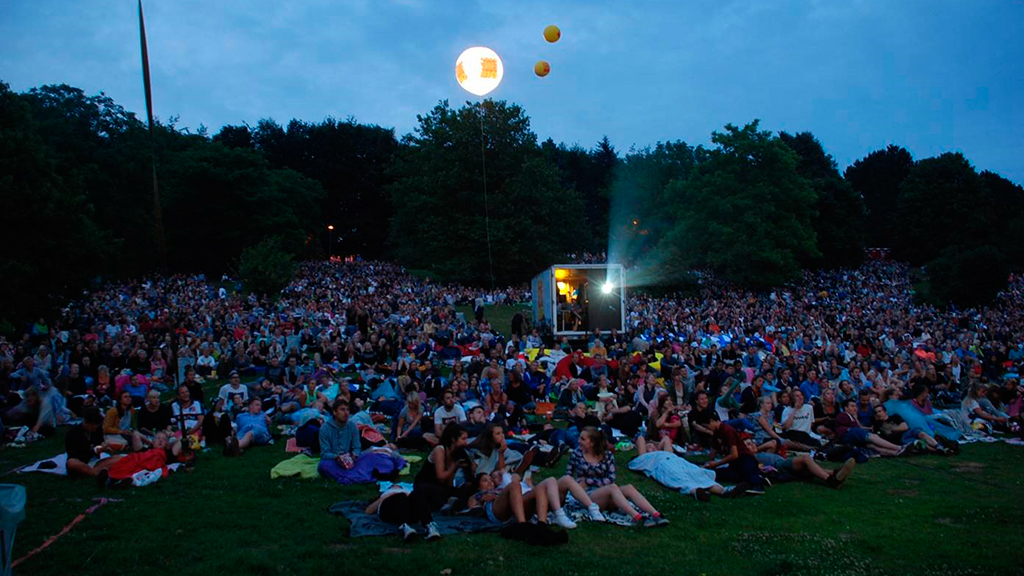
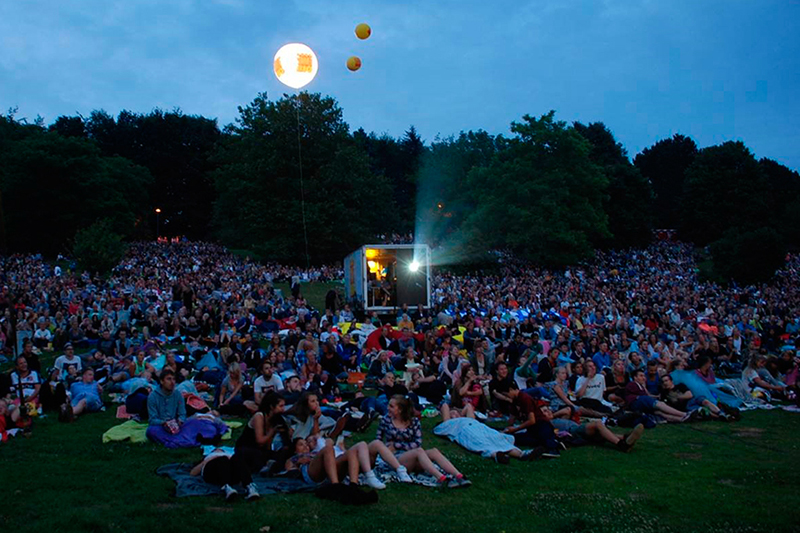
Fixed image ratiosm resolutions, and filenames
Cropped all the images to the correct ratio, and renamed them with lowercase letters.
Fixed the missing/not detailed <alt> tags, and added hyphens when it was necessary.
All images on the same subpages have the same resolution now.

diff --git a/events.php b/events.php
@@ -16,27 +16,27 @@ include("includes/head.php"); ?>
 		<h1>Upcoming Events</h1>
 
 		<h2>Zulu Outdoor Cinema</h2>
-		<div id="zulubox"><img src="pictures/Zulu.jpg" alt="Zulu"></div>
+		<div id="zulubox"><img src="pictures/zulu.jpg" alt="Hundreds of people sitting on the lawn of the Botanical Park watching a movie at night."></div>
 		<p class="welcometext">
 		TV2’s Zulu hosts their yearly outdoor cinema in the Botanical Park. Bring your friends and family, take a spot on the lawn and enjoy some of the best movies that came out this year!
 		The event is free, and screenings start just after sunset.
 		For more information please visit Zulu’s official website.</p>
 
 		<h2>Stella Polaris</h2>
-		<div id="stellabox"><img src="pictures/Stella Polaris Aarhus.jpg" alt="Stella Polaris"></div>
+		<div id="stellabox"><img src="pictures/stella-polaris-aarhus.jpg" alt="Hundreds of people sitting on the lawn of the Botanical Park during a music festival."></div>
 		<p class="welcometext">Stella Polaris is the world’s largest, free downtempo festival. Set in the Botanical Park, Polaris brings established Danish and foreign acts each year to perform for thousands of electronic music fans.
 		The event is free, and all ages!
 		For more information please visit Stella Polaris’ official website.</p>
 
 		<h2>Red Bull Soapbox Race</h2>
-		<div id="soapbox"><img src="pictures/Soap box.jpg" alt="Red Bull Soap Box"></div>
+		<div id="soapbox"><img src="pictures/soap-box.jpg" alt="A soapbox car is rolling downhill in the Botanical Park"></div>
 		<p class="welcometext">Red Bull gives you wheels. The energy drink hosts an annual soap box race on the slopes of the Botanical Park. Dozens of teams competing in front of thousands of spectators to drive the most creative and fastest soapbox car.
 		Reaching the finishing line on wheels isn’t necessary, having fun is a must.
 		The event is free, and open to all ages!
 		For more information, please visit Red Bull’s official website.</p>
 
 		<h1 id="hosting">Thinking of hosting an event?</h1>
-		<div id="hostingbox"><img src="pictures/Book an event.jpg" alt="Book an event"></div>
+		<div id="hostingbox"><img src="pictures/book-an-event.jpg" alt="A group of people doing yoga in a park."></div>
 		<p class="welcometext">Private events such as birthday parties, team building and group exercise classes for up to 30 people may be hosted without the Kommune’s approval.
 		If you are planning something bigger, you can get more information on how to book your event in the Botanical Park through the Brug Aarhus website.</p>
 

diff --git a/projects.php b/projects.php
@@ -16,7 +16,7 @@ include( "includes/head.php" );
 
 		<h1>Upcoming Projects in the Botanical Park</h1>
 		<h2>New Playground in the Botanical Park</h2>
-			<div id="playgroundbox"><img src="pictures/projectplayground.jpg" alt="Project playground"></div>
+			<div id="playgroundbox"><img src="pictures/projectplayground.jpg" alt="A photo of a playground in a park"></div>
 		<p class="welcometext">
 			We are excited to announce that a new all-inclusive playground will be coming soon to the Botanical Park! With a variety of different structures and sensory experiences, the playground will be a fun place for children of all ages to interact with each other out in nature. We want this to be a place that brings the community together, and where better to do this than in the heart of the Botanical Park. Meetings are already underway about getting this community-lead project started, so that building can hopefully begin towards the end of 2018.</p>
 
@@ -46,12 +46,12 @@ include( "includes/head.php" );
 </div>
 
 		<h2>Two new rose species arriving</h2>
-		<div id="rosesbox"><img src="pictures/roses.jpg" alt="roses"></div>
+		<div id="rosesbox"><img src="pictures/roses.jpg" alt="A close-up photo of pink roses in a park."></div>
 		<p class="welcometext">Insert picture here The Friends of the Botanical Garden are re-organising the rose beds to include two new species of roses. Due to growing interest in their work, and an increase in the number of group members, they are now able to expand the rose collection. Work will begin on this project early next month, and we can’t wait to see the results. To see more about the work that the Friends of the Botanical Garden do for the park, visit their official Facebook page.</p>
 
 
 		<h2>Parking lot resurfacing</h2>
-		<div id="parkingbox"><img src="pictures/Car park resurfacing.jpg" alt="Car park"></div>
+		<div id="parkingbox"><img src="pictures/car-park-resurfacing.jpg" alt="A photograph of an excavator digging at a construction site"></div>
 		<p class="welcometext">Insert picture here The main car park on Peter Holms Vej is in need of resurfacing, which will begin in two weeks’ time. In order to minimise the inconvenience during this time, the Kommune has secured free overflow parking in some of the surrounding roads. For a full list of where you can park, please see this map. The project should be completed within a month, however this is very weather dependent, so we will be making regular updates as the work progresses.</p>
 
 

diff --git a/projectsandevents.php b/projectsandevents.php
@@ -21,7 +21,7 @@ include( "includes/head.php" );
 
 		<div class="boxesprojectsandevents" id="projects">
 
-			<a href="projects.php"><img src="pictures/Projects.jpg" alt="A picture of a playground in a park."></a>
+			<a href="projects.php"><img src="pictures/projects.jpg" alt="A picture of a playground in a park."></a>
 			<div class="descprojectsandevents">
 				<h2> Projects </h2>
 			</div>
@@ -29,7 +29,7 @@ include( "includes/head.php" );
 
 		<div class="boxesprojectsandevents" id="events">
 
-			<a href="events.php"><img class="right-image" src="pictures/Events.jpg" alt="A picture of people having fun in a park."></a>
+			<a href="events.php"><img class="right-image" src="pictures/events.jpg" alt="A picture of people having fun in a park."></a>
 			<div class="descprojectsandevents">
 				<h2>Events</h2>
 			</div>
@@ -37,7 +37,7 @@ include( "includes/head.php" );
 
 		<div class="boxesprojectsandevents" id="gallery">
 
-			<a href="gallery.php"><img class="left-image" src="pictures/Gallery.jpg" alt="A picture of a park landscape in autumn."></a>
+			<a href="gallery.php"><img class="left-image" src="pictures/gallery.jpg" alt="A picture of a park landscape in autumn."></a>
 			<div class="descprojectsandevents">
 				<h2>Gallery</h2>
 			</div>
@@ -45,7 +45,7 @@ include( "includes/head.php" );
 
 		<div class="boxesprojectsandevents" id="calendar">
 
-			<a href="calendar.php"><img class="right-image" src="pictures/Calendar.jpg" alt="A picture of a mug and a diary on a wooden desk."></a>
+			<a href="calendar.php"><img class="right-image" src="pictures/calendar.jpg" alt="A picture of a mug and a diary on a wooden desk."></a>
 			<div class="descprojectsandevents">
 				<h2>Calendar</h2>
 			</div>

diff --git a/visitorinfo.php b/visitorinfo.php
@@ -19,14 +19,14 @@ include( "includes/head.php" );
 		<!--Two boxes with pictures and short description? or name on each of the pictures?-->
 
 		<div class="boxesvisitorinfo" id="location">
-			<a href="location.php"><img src="pictures/Location.jpg" alt="A picture of a map showing an aerial view of the Botanical Park."></a>
+			<a href="location.php"><img src="pictures/location.jpg" alt="A picture of a map showing an aerial view of the Botanical Park."></a>
 			<div class="descvisitorinfo">
 				<h2>Location</h2>
 			</div>
 		</div>
 
 		<div class="boxesvisitorinfo" id="history">
-			<a href="history.php"><img src="pictures/History.jpg" alt="A black and white picture of people in the park in the summer from the past."></a>
+			<a href="history.php"><img src="pictures/history.jpg" alt="A black and white picture of people in the park in the summer from the past."></a>
 			<div class="descvisitorinfo">
 				<h2>History</h2>
 			</div>
